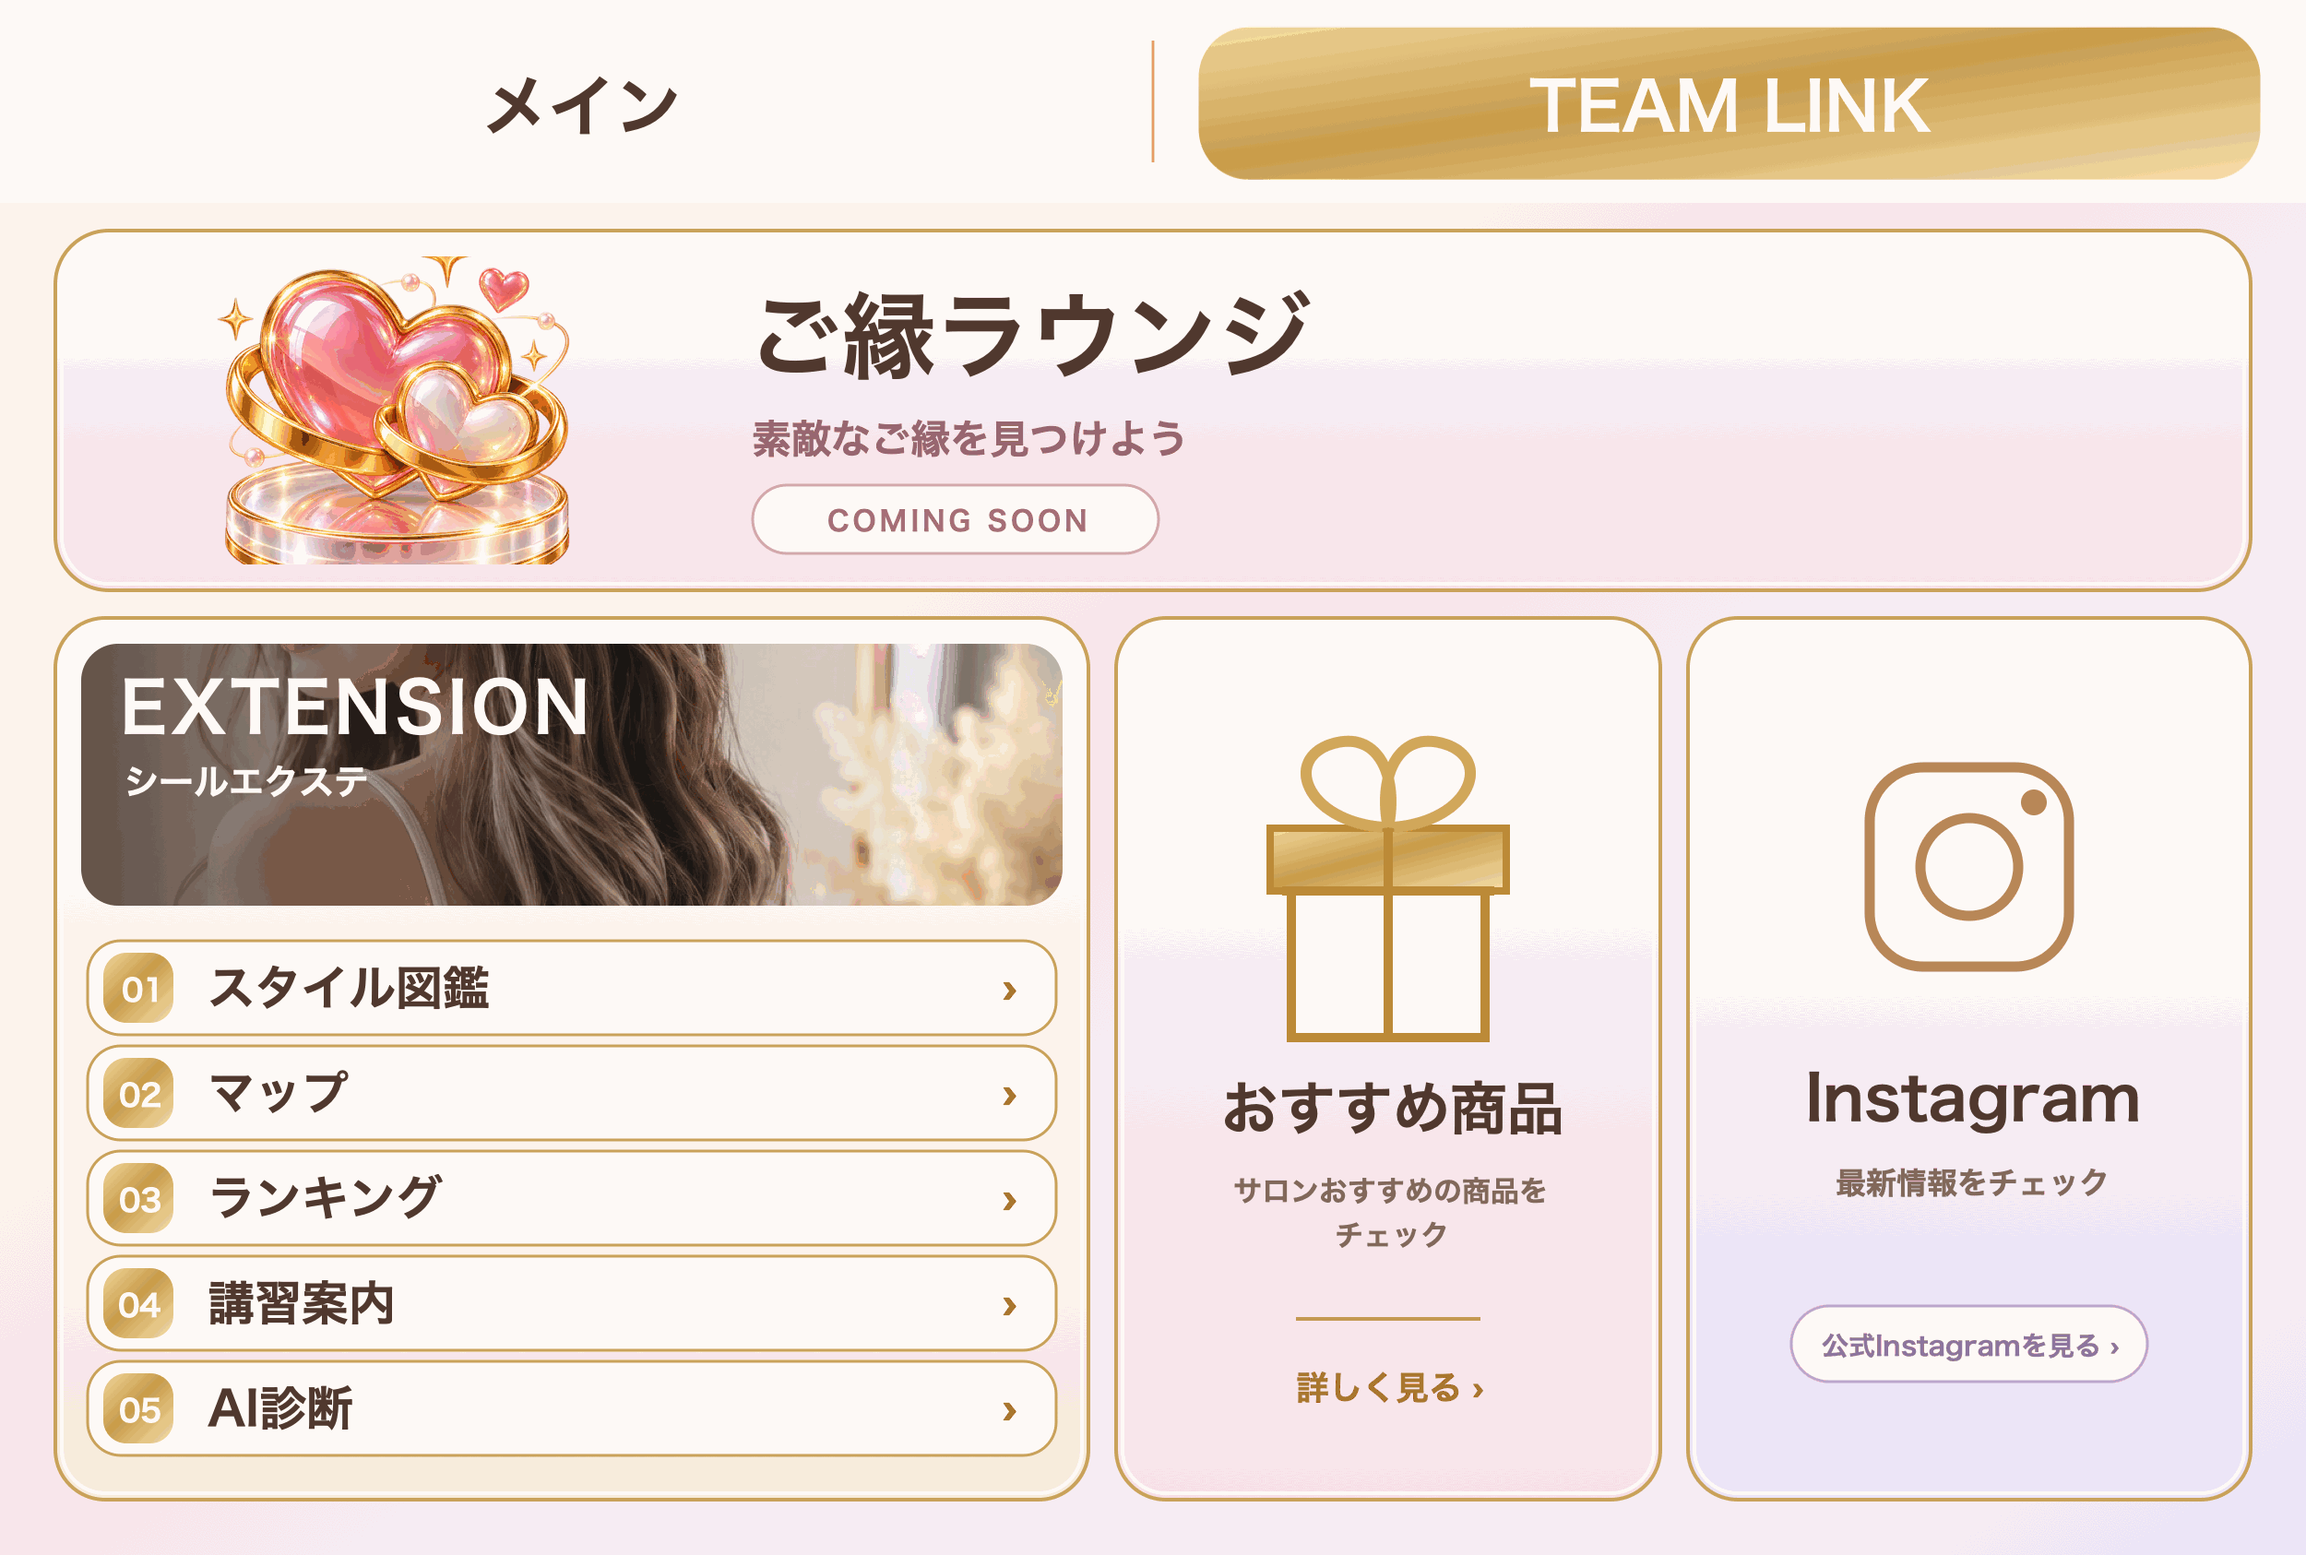
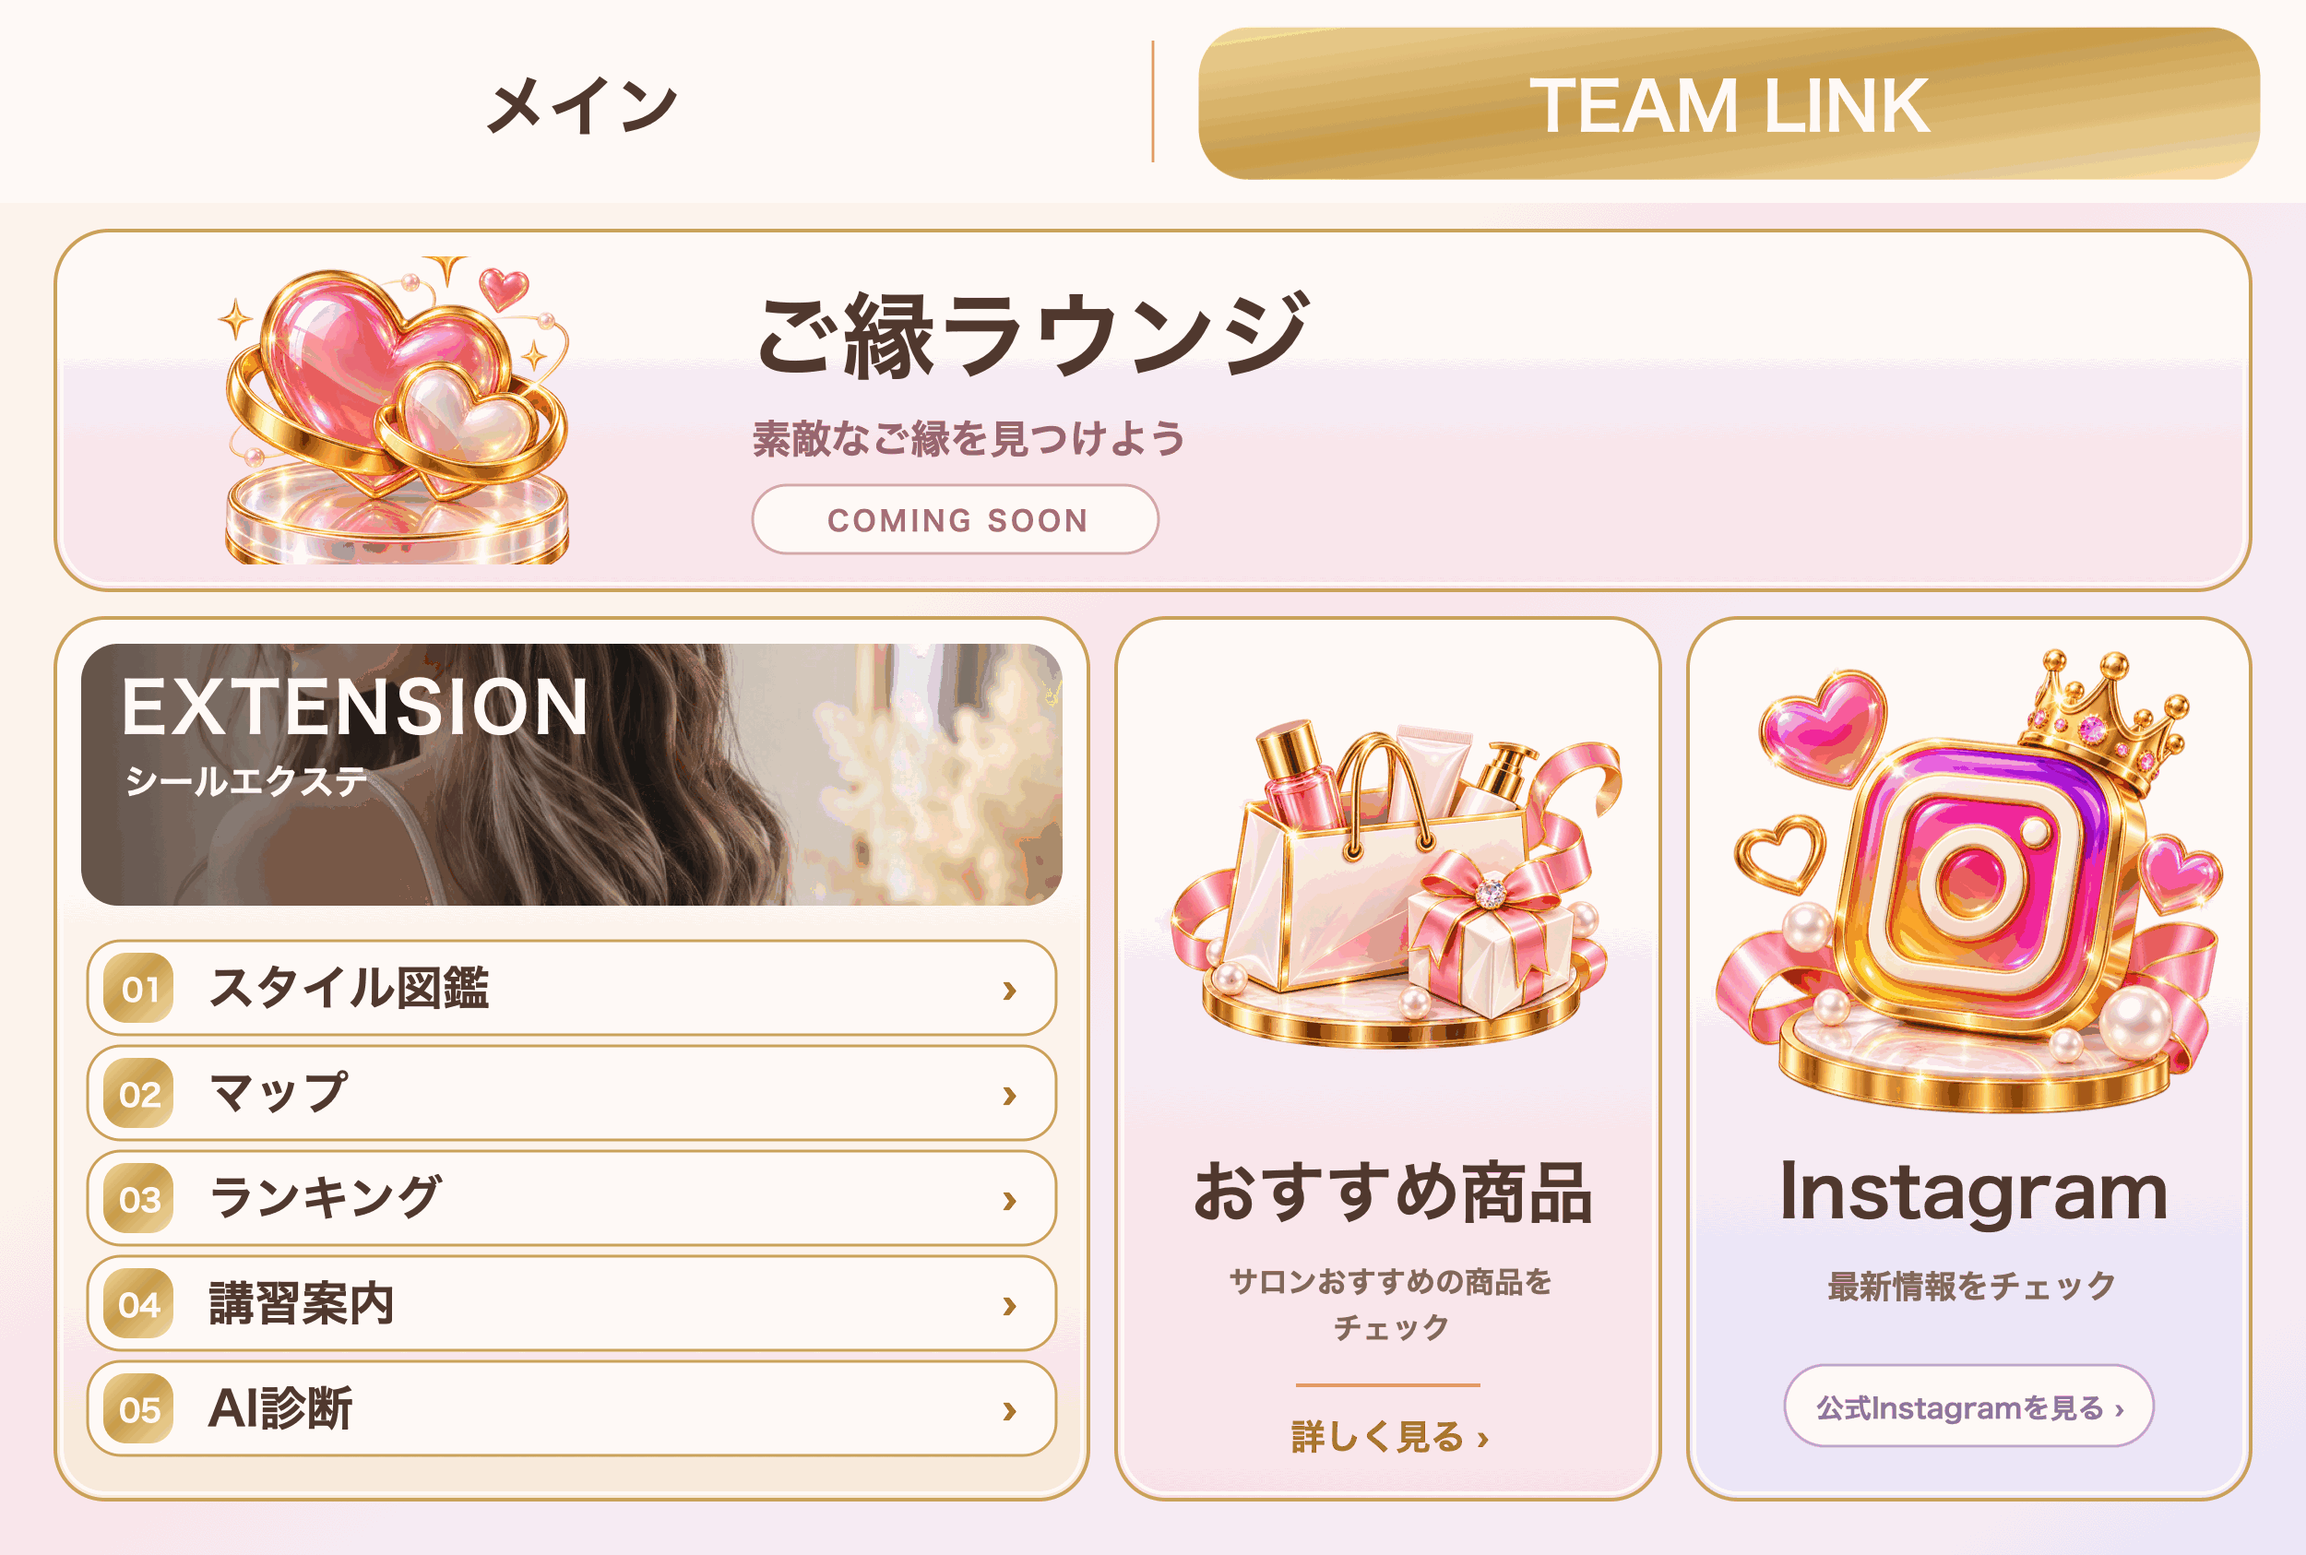
Update TEAM LINK rich menu service artwork

diff --git a/scripts/generate-richmenu-images.py b/scripts/generate-richmenu-images.py
@@ -101,6 +101,12 @@ def clipped_image(image_path: Path, clip_id: str, x, y, width, height, radius=38
         clip-path="url(#{clip_id})" xlink:href="{uri}"/>'''
 
 
+def contained_image(image_path: Path, x, y, width, height) -> str:
+    uri = os.path.relpath(image_path, SOURCE).replace(os.sep, "/")
+    return f'''<image x="{x}" y="{y}" width="{width}" height="{height}"
+      preserveAspectRatio="xMidYMid meet" xlink:href="{uri}"/>'''
+
+
 def inline_image_references(svg_text: str) -> str:
     """Embed referenced images only in the temporary SVG passed to sips.
 
@@ -114,6 +120,8 @@ def inline_image_references(svg_text: str) -> str:
         HOME / "fortune.png",
         HOME / "mypage.png",
         HOME / "lounge.png",
+        OUT / "shopping.png",
+        OUT / "instagram.png",
         SOURCE / "extension-hair-crop.jpg",
     ]
     rendered = svg_text
@@ -198,19 +206,19 @@ def service_svg() -> str:
         </g>''')
 
     parts.append(card(1210, 670, 590, 956, "url(#pinkCard)", 54))
-    parts.append(gift_icon())
-    parts.append('''<text x="1505" y="1225" text-anchor="middle" class="serif brown" font-size="62" font-weight="800">おすすめ商品</text>
-      <text x="1505" y="1303" text-anchor="middle" class="muted" font-size="31" font-weight="700">サロンおすすめの商品を</text>
-      <text x="1505" y="1351" text-anchor="middle" class="muted" font-size="31" font-weight="700">チェック</text>
-      <path d="M1405 1430h200" stroke="#c49a52" stroke-width="4"/>
-      <text x="1505" y="1518" text-anchor="middle" class="goldText" font-size="36" font-weight="800">詳しく見る ›</text>''')
+    parts.append(contained_image(OUT / "shopping.png", 1225, 700, 560, 520))
+    parts.append('''<text x="1505" y="1320" text-anchor="middle" class="serif brown" font-size="73" font-weight="900">おすすめ商品</text>
+      <text x="1505" y="1402" text-anchor="middle" class="muted" font-size="32" font-weight="700">サロンおすすめの商品を</text>
+      <text x="1505" y="1452" text-anchor="middle" class="muted" font-size="32" font-weight="700">チェック</text>
+      <path d="M1405 1502h200" stroke="#c49a52" stroke-width="4"/>
+      <text x="1505" y="1572" text-anchor="middle" class="goldText" font-size="38" font-weight="800">詳しく見る ›</text>''')
 
     parts.append(card(1830, 670, 610, 956, "url(#lavenderCard)", 54))
-    parts.append(instagram_icon())
-    parts.append('''<text x="2135" y="1215" text-anchor="middle" class="serif brown" font-size="67" font-weight="800">Instagram</text>
-      <text x="2135" y="1295" text-anchor="middle" class="muted" font-size="33" font-weight="700">最新情報をチェック</text>
-      <rect x="1942" y="1416" width="386" height="82" rx="41" fill="#fffdf9" stroke="#bca6cd" stroke-width="3"/>
-      <text x="2135" y="1470" text-anchor="middle" fill="#8d759e" font-size="29" font-weight="800">公式Instagramを見る ›</text>''')
+    parts.append(contained_image(OUT / "instagram.png", 1855, 690, 560, 535))
+    parts.append('''<text x="2135" y="1320" text-anchor="middle" class="serif brown" font-size="78" font-weight="900">Instagram</text>
+      <text x="2135" y="1408" text-anchor="middle" class="muted" font-size="35" font-weight="700">最新情報をチェック</text>
+      <rect x="1935" y="1480" width="400" height="88" rx="44" fill="#fffdf9" stroke="#bca6cd" stroke-width="3"/>
+      <text x="2135" y="1538" text-anchor="middle" fill="#8d759e" font-size="30" font-weight="800">公式Instagramを見る ›</text>''')
     parts.append('</svg>')
     return ''.join(parts)
 
